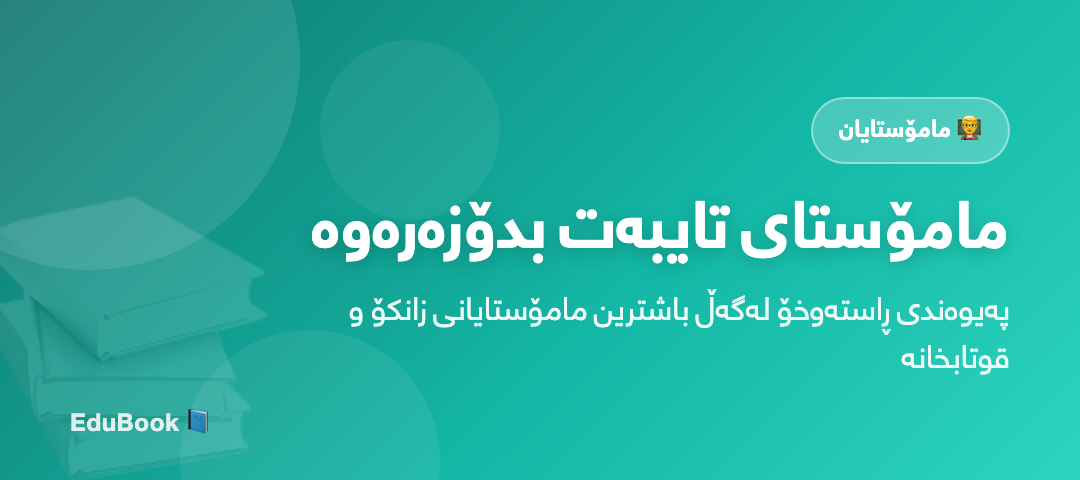
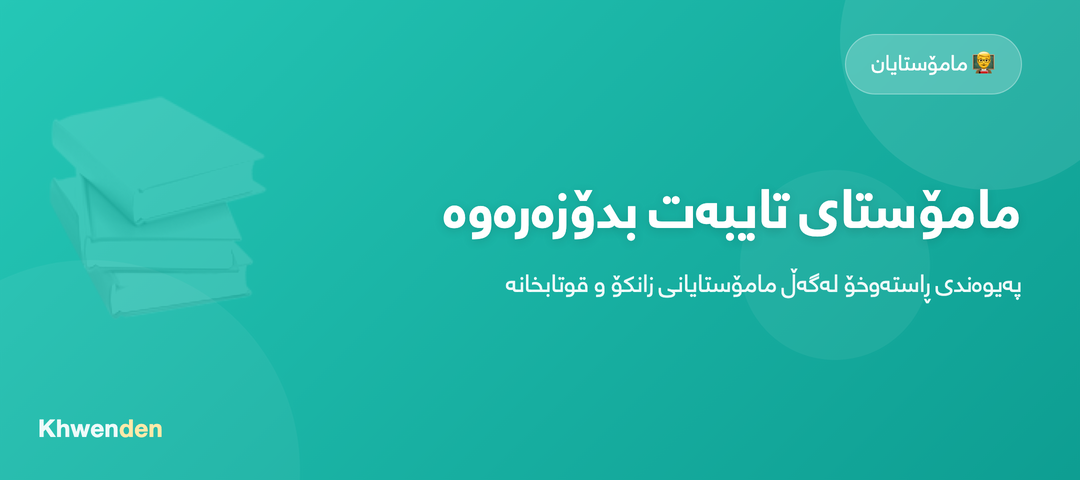
feat: rebrand app from EduBook to Khwenden and update related references across the codebase

diff --git a/xwendngakan_app/lib/core/localization/app_localizations.dart b/xwendngakan_app/lib/core/localization/app_localizations.dart
@@ -41,9 +41,9 @@ class AppLocalizations {
   String get appTagline => _t({
         'ku': ' پلاتفۆرمی پەروەردەیی',
         'kbd': 'پلاتفۆرمێ پەروەردەیا ',
-        'ar': 'منصة التعليم الحديثة',
-        'en': 'Modern Educational Platform',
-        'tr': 'Modern Eğitim Platformu'
+        'ar': 'منصة تعليمية',
+        'en': 'Educational Platform',
+        'tr': 'Eğitim Platformu'
       });
   String get loading => _t({
         'ku': 'چاوەڕوان بە...',

diff --git a/xwendngakan-backend/resources/views/welcome.blade.php b/xwendngakan-backend/resources/views/welcome.blade.php
@@ -3,7 +3,7 @@
 <head>
     <meta charset="utf-8">
     <meta name="viewport" content="width=device-width, initial-scale=1">
-    <title>edu book - پلاتفۆرمی پەروەردەیی مۆدێرن</title>
+    <title>Khwenden - پلاتفۆرمی پەروەردەیی</title>
     <link rel="icon" href="{{ asset('images/app_logo.png') }}?v={{ time() }}" type="image/png">
     <link rel="apple-touch-icon" href="{{ asset('images/app_logo.png') }}?v={{ time() }}">
     <!-- Fonts -->
@@ -156,7 +156,7 @@
             <div class="flex items-center gap-4 group cursor-pointer" onclick="window.location.href='/'">
                 <img src="{{ asset('images/app_logo.png') }}?v={{ time() }}" class="w-16 h-16 object-contain group-hover:scale-110 transition-transform drop-shadow-md">
                 <div class="flex flex-col">
-                    <span class="text-xl font-black tracking-tight text-slate-900 leading-none">edu book</span>
+                    <span class="text-xl font-black tracking-tight text-slate-900 leading-none">Khwenden</span>
                     <span class="text-[10px] uppercase tracking-[0.2em] font-bold text-brand-600 mt-1 opacity-70 italic">پەروەردەیەکی جیاواز</span>
                 </div>
             </div>
@@ -205,7 +205,7 @@
         <div class="bg-white w-full max-w-[440px] rounded-[2.5rem] overflow-hidden shadow-2xl relative" @click.away="showLogin = false">
             <div class="bg-brand-600 p-10 text-white text-center relative overflow-hidden">
                 <h3 class="text-3xl font-black mb-2 relative z-10">بەخێربێیتەوە</h3>
-                <p class="text-brand-100 text-sm font-medium relative z-10">بۆ چوونە ناو edu book هەژمارەکەت بنووسە</p>
+                <p class="text-brand-100 text-sm font-medium relative z-10">بۆ چوونە ناو Khwenden هەژمارەکەت بنووسە</p>
                 <button @click="showLogin = false" class="absolute top-6 left-6 p-2 text-white/50 hover:text-white transition-colors">
                     <svg class="w-5 h-5" fill="none" stroke="currentColor" viewBox="0 0 24 24"><path stroke-linecap="round" stroke-linejoin="round" stroke-width="2.5" d="M6 18L18 6M6 6l12 12" /></svg>
                 </button>
@@ -271,7 +271,7 @@
                     <div class="relative z-10 animate-float">
                         <div class="relative max-w-md mx-auto">
                             <div class="absolute inset-0 bg-brand-500/20 rounded-[4rem] blur-[80px] -rotate-6"></div>
-                            <img src="/images/app_home.png" alt="edu book App" class="relative w-full h-auto drop-shadow-[0_35px_35px_rgba(0,0,0,0.15)]">
+                            <img src="/images/app_home.png" alt="Khwenden App" class="relative w-full h-auto drop-shadow-[0_35px_35px_rgba(0,0,0,0.15)]">
                         </div>
                     </div>
                 </div>
@@ -283,7 +283,7 @@
     <section id="about" class="py-32 bg-white relative">
         <div class="max-w-7xl mx-auto px-6">
             <div class="text-center max-w-3xl mx-auto mb-24 reveal-on-scroll">
-                <h2 class="text-4xl font-black text-slate-900 mb-6">بۆچی edu book؟</h2>
+                <h2 class="text-4xl font-black text-slate-900 mb-6">بۆچی Khwenden؟</h2>
                 <div class="w-20 h-2 bg-brand-500 mx-auto rounded-full mb-8"></div>
                 <p class="text-lg text-slate-500 font-medium">ئێمە ژینگەیەکی دیجیتاڵی مۆدێرنمان دروستکردووە کە پردی پەیوەندییە لە نێوان ناوەندە پەروەردەییەکان و خێزانەکاندا.</p>
             </div>
@@ -313,7 +313,7 @@
     <section id="features" class="py-32 bg-slate-50 relative overflow-hidden">
         <div class="max-w-7xl mx-auto px-6">
             <div class="text-center mb-24 reveal-on-scroll">
-                <h2 class="text-4xl font-black text-slate-900 italic">ئەپی edu book</h2>
+                <h2 class="text-4xl font-black text-slate-900 italic">ئەپی Khwenden</h2>
                 <p class="text-slate-400 font-medium italic mt-4">ئەزموونێکی جیاواز و مۆدێرن بۆ گەڕان و دۆزینەوە</p>
                 <div class="w-24 h-2 bg-brand-500 mx-auto rounded-full mt-6"></div>
             </div>
@@ -372,7 +372,7 @@
             <div class="p-16 bg-slate-900 rounded-[4rem] text-white flex flex-col md:flex-row items-center justify-between gap-12 shadow-2xl relative overflow-hidden reveal-on-scroll">
                 <div class="space-y-4 text-center md:text-right relative z-10">
                     <h3 class="text-4xl font-black italic leading-tight">ئامادەی بۆ ئەزموونێکی نوێ؟</h3>
-                    <p class="text-slate-400 text-lg font-medium italic">ببەرە بەشێک لە پلاتفۆرمی edu book و دەستپێبکە.</p>
+                    <p class="text-slate-400 text-lg font-medium italic">ببەرە بەشێک لە پلاتفۆرمی Khwenden و دەستپێبکە.</p>
                 </div>
                 <button @click="showLogin = true" class="btn-premium px-12 py-5 bg-brand-600 text-white rounded-[2rem] font-black text-xl shadow-2xl hover:scale-[1.05] transition-all">دەستپێبکە ئێستا</button>
             </div>
@@ -425,7 +425,7 @@
                 <div class="flex items-center gap-4 group">
                     <img src="{{ asset('images/app_logo.png') }}?v={{ time() }}" class="w-14 h-14 object-contain drop-shadow-md">
                     <div class="flex flex-col">
-                        <span class="text-xl font-black text-slate-900 tracking-tight">edu book</span>
+                        <span class="text-xl font-black text-slate-900 tracking-tight">Khwenden</span>
                         <span class="text-[10px] uppercase font-bold text-slate-400 tracking-widest mt-0.5 italic">Education Platform</span>
                     </div>
                 </div>

diff --git a/xwendngakan-backend/resources/views/portal/home.blade.php b/xwendngakan-backend/resources/views/portal/home.blade.php
@@ -1,5 +1,5 @@
 @extends('portal.layout')
-@section('title', 'EduBook — پلاتفۆرمی پەروەردەیی کوردستان')
+@section('title', 'Khwenden — پلاتفۆرمی پەروەردەیی کوردستان')
 
 @section('styles')
 <style>
@@ -179,11 +179,11 @@ body {
     <div class="container">
         <div class="badge reveal">تایبەت بە ناوەندەکانی خوێندن</div>
         <h1 class="hero-title reveal delay-1">
-            پێشەنگ بە لە<br>
-            ناساندنی دامەزراوەکەت
+            دامەزراوەکەت بناسێنە<br>
+            بە خوێندکاران
         </h1>
         <p class="hero-desc reveal delay-2">
-            پلاتفۆرمی EduBook ژینگەیەکی دیجیتاڵییە؛ زانکۆ، پەیمانگا و قوتابخانەکان ڕاستەوخۆ دەبەستێتەوە بە خوێندکارانەوە.
+            پلاتفۆرمی Khwenden ژینگەیەکی دیجیتاڵییە؛ زانکۆ، پەیمانگا و قوتابخانەکان ڕاستەوخۆ دەبەستێتەوە بە خوێندکارانەوە.
         </p>
         <div class="reveal delay-3" style="display:flex; gap:1rem; justify-content:center;">
             <a href="{{ route('portal.register') }}" class="btn-flat btn-primary-flat">ئێستا خۆت تۆمار بکە</a>
@@ -213,7 +213,7 @@ body {
                 <div class="goal-icon">🎯</div>
                 <h3 class="goal-title">ئامانجی سەرەکی</h3>
                 <p class="goal-desc">
-                    ئامانجمان ئەوەیە هەموو دامەزراوە پەروەردەییەکانی کوردستان لە یەک ئەپلیکەیشنی مۆبایلدا کۆبکەینەوە. کاتێک تۆ لێرە خۆت تۆمار دەکەیت، ڕاستەوخۆ دەگەیەتە سەدان هەزار خوێندکار کە ڕۆژانە ئەپلیکەیشنی EduBook بەکاردەهێنن، و هەواڵەکانت دەبینن.
+                    ئامانجمان ئەوەیە هەموو دامەزراوە پەروەردەییەکانی کوردستان لە یەک ئەپلیکەیشنی مۆبایلدا کۆبکەینەوە. کاتێک تۆ لێرە خۆت تۆمار دەکەیت، دامەزراوەکەت لە ئەپلیکەیشنی Khwenden دەردەکەوێت و خوێندکاران دەتوانن پرۆفایل و هەواڵەکانت ببینن.
                 </p>
             </div>
         </div>
@@ -321,7 +321,7 @@ body {
             <div class="app-text reveal delay-1">
                 <div class="sec-subtitle" style="margin-bottom: 1rem;">ئەنجامەکان</div>
                 <h2>نیشاندان لە ناو ئەپلیکەیشنی خوێندکاران</h2>
-                <p>کاتێک تۆ زانیارییەکانت لێرە (لە پۆرتاڵ) داخڵ دەکەیت و پەسەند دەکرێیت، دامەزراوەکەت ڕاستەوخۆ دەگوازرێتەوە ناو ئەپلیکەیشنی مۆبایلی EduBook.</p>
+                <p>کاتێک تۆ زانیارییەکانت لێرە (لە پۆرتاڵ) داخڵ دەکەیت و پەسەند دەکرێیت، دامەزراوەکەت ڕاستەوخۆ دەگوازرێتەوە ناو ئەپلیکەیشنی مۆبایلی Khwenden.</p>
                 <p>خوێندکاران لە ناو ئەپلیکەیشنەکە بەم شێوەیە دەتبینن:</p>
                 <ul class="app-features">
                     <li>پڕۆفایلێکی تایبەت بە خۆت بە لۆگۆکەتەوە دەردەکەوێت.</li>
@@ -381,7 +381,7 @@ body {
 
 {{-- ═══════ FOOTER ═══════ --}}
 <footer style="text-align:center; padding:3rem 1.5rem; background:var(--bg-card); border-top:1px solid var(--border-strong);">
-    <p style="color:var(--txt2); font-size:1.1rem;">© {{ date('Y') }} <strong style="color:var(--gold-solid)">EduBook</strong>. هەموو مافەکان پارێزراون.</p>
+    <p style="color:var(--txt2); font-size:1.1rem;">© {{ date('Y') }} <strong style="color:var(--gold-solid)">Khwenden</strong>. هەموو مافەکان پارێزراون.</p>
 </footer>
 
 @endsection

diff --git a/xwendngakan-backend/resources/views/portal/layout.blade.php b/xwendngakan-backend/resources/views/portal/layout.blade.php
@@ -3,10 +3,10 @@
 <head>
     <meta charset="UTF-8">
     <meta name="viewport" content="width=device-width, initial-scale=1.0">
-    <title>@yield('title', 'EduBook — پلاتفۆرمی پەروەردەیی')</title>
+    <title>@yield('title', 'Khwenden — پلاتفۆرمی پەروەردەیی')</title>
     <link rel="icon" href="{{ asset('images/app_logo.png') }}?v={{ time() }}" type="image/png">
     <link rel="apple-touch-icon" href="{{ asset('images/app_logo.png') }}?v={{ time() }}">
-    <meta name="description" content="EduBook — تۆمارکردنی دامەزراوەت و بەڕێوەبردنی پۆستەکانت بە ئاسانی">
+    <meta name="description" content="Khwenden — تۆمارکردنی دامەزراوەت و بەڕێوەبردنی پۆستەکانت بە ئاسانی">
     <link rel="preconnect" href="https://fonts.googleapis.com">
     <link rel="preconnect" href="https://fonts.gstatic.com" crossorigin>
     <link href="https://fonts.googleapis.com/css2?family=Vazirmatn:wght@100..900&display=swap" rel="stylesheet">
@@ -148,7 +148,7 @@
     <nav class="navbar">
         <a href="{{ route('portal.home') }}" class="nav-brand">
             <div class="nav-logo" style="width: 38px; height: 38px; background:transparent; border:none; box-shadow:none;">
-                <img src="{{ asset('images/app_logo.png') }}?v={{ time() }}" alt="EduBook" style="width:100%; height:100%; object-fit:contain; transform: scale(1.15);">
+                <img src="{{ asset('images/app_logo.png') }}?v={{ time() }}" alt="Khwenden" style="width:100%; height:100%; object-fit:contain; transform: scale(1.15);">
             </div>
             <div class="nav-brand-text"><span>Edu</span>Book</div>
         </a>

diff --git a/xwendngakan-backend/resources/views/privacy.blade.php b/xwendngakan-backend/resources/views/privacy.blade.php
@@ -3,7 +3,7 @@
 <head>
   <meta charset="utf-8">
   <meta name="viewport" content="width=device-width, initial-scale=1">
-  <title>سیاسەتی تایبەتمەندێتی — EduBook</title>
+  <title>سیاسەتی تایبەتمەندێتی — Khwenden</title>
   <style>
     * { box-sizing: border-box; }
     body {
@@ -34,11 +34,11 @@
   <div class="wrap">
     <div class="header">
       <h1>سیاسەتی تایبەتمەندێتی (Privacy Policy)</h1>
-      <p>ئەپی EduBook — خوێندنگاکان · دواین نوێکردنەوە: {{ date('Y-m-d') }}</p>
+      <p>ئەپی Khwenden — خوێندنگاکان · دواین نوێکردنەوە: {{ date('Y-m-d') }}</p>
     </div>
 
     <div class="card">
-      <p>ئەم سیاسەتە ڕوون دەکاتەوە کە ئەپی <strong>EduBook</strong> چۆن زانیاری بەکارهێنەران کۆدەکاتەوە، بەکاریدەهێنێت و دەیپارێزێت. بە بەکارهێنانی ئەپەکە، تۆ ڕازیبوونت بەم سیاسەتە دەردەبڕیت.</p>
+      <p>ئەم سیاسەتە ڕوون دەکاتەوە کە ئەپی <strong>Khwenden</strong> چۆن زانیاری بەکارهێنەران کۆدەکاتەوە، بەکاریدەهێنێت و دەیپارێزێت. بە بەکارهێنانی ئەپەکە، تۆ ڕازیبوونت بەم سیاسەتە دەردەبڕیت.</p>
     </div>
 
     <div class="card">
@@ -100,7 +100,7 @@
       </ul>
     </div>
 
-    <div class="footer">© {{ date('Y') }} EduBook — khwenden.com</div>
+    <div class="footer">© {{ date('Y') }} Khwenden — khwenden.com</div>
   </div>
 </body>
 </html>

diff --git a/xwendngakan-backend/resources/views/support.blade.php b/xwendngakan-backend/resources/views/support.blade.php
@@ -3,7 +3,7 @@
 <head>
   <meta charset="utf-8">
   <meta name="viewport" content="width=device-width, initial-scale=1">
-  <title>پشتگیری — EduBook (Khwenden)</title>
+  <title>پشتگیری — Khwenden</title>
   <style>
     * { box-sizing: border-box; }
     body {
@@ -36,7 +36,7 @@
   <div class="wrap">
     <div class="header">
       <h1>پشتگیری و یارمەتی (Support)</h1>
-      <p>ئەپی EduBook — خوێندنگاکان (Khwenden)</p>
+      <p>ئەپی Khwenden — خوێندنگاکان</p>
     </div>
 
     <div class="card">
@@ -61,7 +61,7 @@
 
     <div class="card ltr">
       <h2 style="text-align:right">Support (English)</h2>
-      <p>For any questions, issues, or feedback about the EduBook (Khwenden) app, contact us:</p>
+      <p>For any questions, issues, or feedback about the Khwenden app, contact us:</p>
       <ul class="contact">
         <li>Email: <a href="mailto:support@khwenden.com">support@khwenden.com</a></li>
         <li>Website: <a href="https://khwenden.com">https://khwenden.com</a></li>
@@ -69,7 +69,7 @@
       <p class="muted">We usually respond within 24–48 hours.</p>
     </div>
 
-    <div class="footer">© {{ date('Y') }} Paytakht Technical Institute — EduBook (Khwenden)</div>
+    <div class="footer">© {{ date('Y') }} Paytakht Technical Institute — Khwenden</div>
   </div>
 </body>
 </html>

diff --git a/xwendngakan-backend/resources/views/portal/dashboard.blade.php b/xwendngakan-backend/resources/views/portal/dashboard.blade.php
@@ -1,5 +1,5 @@
 @extends('portal.layout')
-@section('title', 'داشبۆرد — EduBook')
+@section('title', 'داشبۆرد — Khwenden')
 @section('styles')
 <style>
 /* ════════════════════════════════════════════════

diff --git a/xwendngakan-backend/resources/views/portal/auth/waiting.blade.php b/xwendngakan-backend/resources/views/portal/auth/waiting.blade.php
@@ -1,5 +1,5 @@
 @extends('portal.layout')
-@section('title', 'چاوەڕوانی پەسەندکردن — EduBook')
+@section('title', 'چاوەڕوانی پەسەندکردن — Khwenden')
 @section('styles')
 <style>
 @keyframes pulse {

diff --git a/xwendngakan-backend/resources/views/portal/auth/login.blade.php b/xwendngakan-backend/resources/views/portal/auth/login.blade.php
@@ -1,5 +1,5 @@
 @extends('portal.layout')
-@section('title', 'چوونەژوورەوە — EduBook')
+@section('title', 'چوونەژوورەوە — Khwenden')
 @section('styles')
 <style>
 .auth-page {

diff --git a/xwendngakan-backend/resources/views/portal/auth/register.blade.php b/xwendngakan-backend/resources/views/portal/auth/register.blade.php
@@ -1,5 +1,5 @@
 @extends('portal.layout')
-@section('title', 'تۆمارکردن — EduBook')
+@section('title', 'تۆمارکردن — Khwenden')
 @section('styles')
 <style>
 .auth-page {
